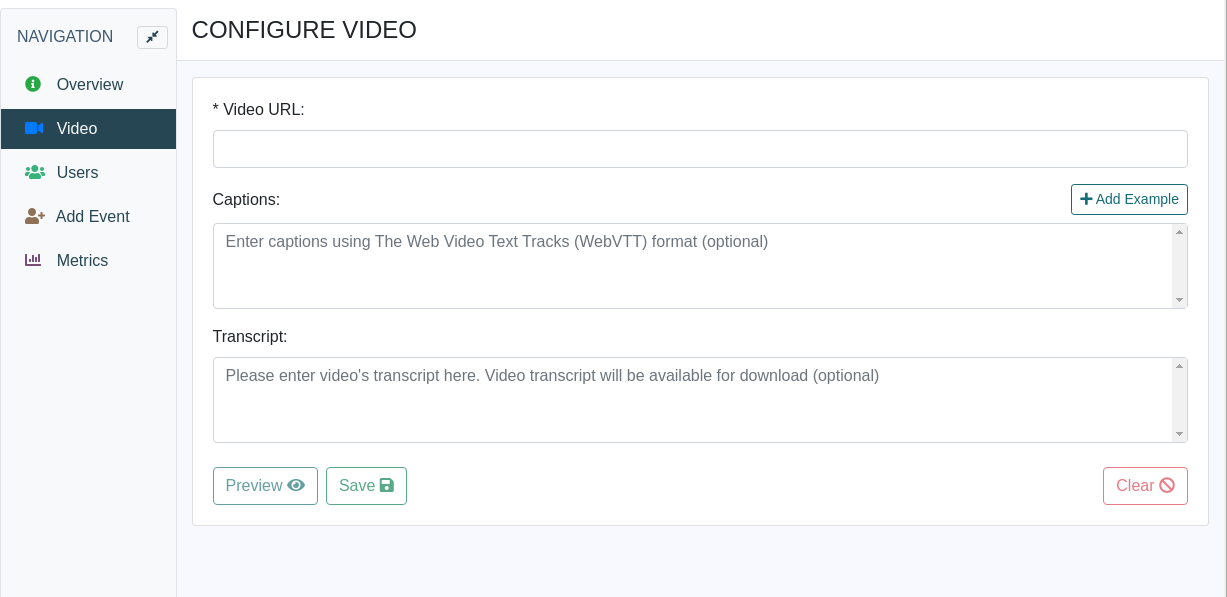
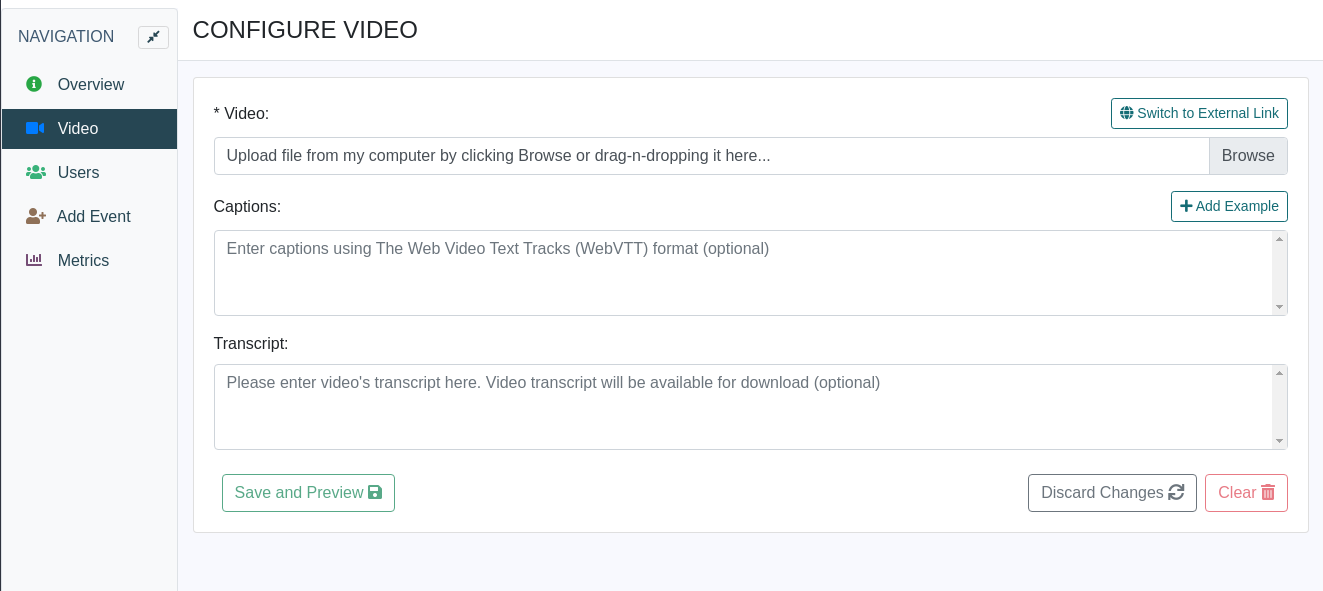
#267: document 2.9 release - wip

diff --git a/docs/dashboard/user-guide/skills.md b/docs/dashboard/user-guide/skills.md
@@ -55,13 +55,26 @@ You can also disable the Time Window property of a Skill, which will force each 
 
 ## Videos <since project="skills-service" version="2.8" />
 
-Externally hosted videos can be embedded into the skill description and optionally configured to achieve that skill once the
-video is fully watched. To configure a video, please navigate to `Project -> Subject -> Skill -> Video`   
+SkillTree supports embedding videos into the skill description and optionally configured to achieve that skill once the
+video is fully watched. You can either embed externally hosted videos OR upload a video directly into SkillTree.  
+
+- **SkillTree Hosted** <since project="skills-service" version="2.9" />: upload a video using file-upload form (Browse button) or by drag-n-dropping video files 
+  - SkillTree supported video formats are:
+    - [Webm](https://www.webmproject.org/about/) - free video format specifically created for the web 
+    - [MP4](https://en.wikipedia.org/wiki/MP4_file_format) - common video format often used in web applications
+- **Externally Hosted**: enter URL that points to a video hosted on another web server (ex. `https://someloca/.../../video.mp4`)
+
+
+To configure a video, please navigate to `Project -> Subject -> Skill -> Video`   
 
 ![Video Config Page](../../screenshots/admin/page-video-config.png)
 
-The only required field is `Video URL`, which points to an externally hosted video (ex. `<url>.mp4`). 
-Once the video is configured it will be presented on the training above the skill's description. 
+The only required field is `Video` and once the video is configured it will be presented on the training above the skill's description. 
+
+To upload a video from you computer you can click on the `Browse` button or `drag-n-drop` a video file into the video input box.
+To configure externally hosted video click on the `Switch to External Link` button then enter the URL that points to an externally hosted video. 
+Please do not forget to click `Save and Preview` button to persist the changes. 
+
 
 To make the video accessible, the configuration offers the ability to specify `Captions` and `Transcript` values.
 When captions are configured the video player will present an option to turn captions on or off.  
@@ -74,10 +87,13 @@ Once the video's settings are specified the skill can also be configured to be a
 Video-based achievements are done using [Self Reporting](/dashboard/user-guide/self-reporting.html) mechanism and can be easily 
 selected by editing that skill and selecting `Video` Self Reporting type. 
 
-::: tip
+::: tips
 Please note that self reporting by watching the video completes the skill, so when the `Video` type is
 selected, `Occurrences to Completion` are set to `1` and cannot be changed.
 :::
+
+If a video has a transcript configured then users will also be allowed to earn the skill by reading its transcript
+and then self-certifying to receive the credit for the skill. 
 
 ## Copy Skill
 To use an existing Skill as a template for a new Skill, you can use the ![copy skill button](./screenshots/copy_btn.png) button available on a Skill row displayed on the Subject page.

diff --git a/docs/release-notes/skills-service.md b/docs/release-notes/skills-service.md
@@ -8,10 +8,25 @@ To obtain deployable artifacts please visit [Distributions](/dashboard/install-g
 
 </conditional>
 
+
+## 2.9.0 <release-date date="August 2023" />
+- Videos in SkillTree
+  - Added support for uploading and hosting videos and integrated with skill's display and video-based skill achievements
+  - During configuration of a video added a clear indicator whether this skill is achievable via watching the video (`self-report=video`)
+  - In addition to watching a video to earn skill's points users are now also allowed to earn the skill's achievement by reading its transcript
+- Quiz and Survey Improvements
+  - Ability to present quiz questions and/or answers in a random order
+  - Ability to have random quiz questions chosen for each quiz attempt
+  - Added new survey star-based rating question type
+- Implemented ability to expire a skill on a specific date based on the configured re-occurring time period
+
+## 2.8.1 <release-date date="July 2023" />
+- Bug Fixes
+
 ## 2.8.0 <release-date date="July 2023" />
-- added ability to embed [training videos](/dashboard/user-guide/skills.html#videos) into skill's description
-- added ability to [achieve skill](/dashboard/user-guide/skills.html#achieve-skill-by-watching-the-video) based on watching embedded video
-- added [bonus award](/dashboard/user-guide/badges.html#bonus-award) feature to create more competitive aspect to badges
+- Added ability to embed [training videos](/dashboard/user-guide/skills.html#videos) into skill's description
+- Added ability to [achieve skill](/dashboard/user-guide/skills.html#achieve-skill-by-watching-the-video) based on watching embedded video
+- Added [bonus award](/dashboard/user-guide/badges.html#bonus-award) feature to create more competitive aspect to badges
 
 ## 2.7.2 <release-date date="July 2023" />
 - Spring Boot upgrade

diff --git a/docs/dashboard/user-guide/quizzes-and-surveys.md b/docs/dashboard/user-guide/quizzes-and-surveys.md
@@ -84,6 +84,14 @@ answered correctly in order to get the credit.
 
 By default, users have an unlimited number of attempts to pass a quiz. You can set the maximum number of attempts to 1 or more. 
 
+#### Setting: Randomize Question Order <since project="skills-service" version="2.9" />
+
+If enabled, questions are presented in a random order each time the quiz is taken. 
+
+#### Setting: Randomize Answers Order <since project="skills-service" version="2.9" />
+
+If enabled, each question's answers are presented in a random order each time the quiz is taken.
+
 ## Survey
 
 A Survey is a data collection technique utilizing one or more questions. Surveys can be associated to a skill or can be
@@ -92,10 +100,11 @@ earn the skill and its points.
 When associated to a skill, the survey is a method to gather feedback about that skill or collect some
 pieces of important data related to the skill. 
 
-A Survey currently supports three types of questions:
+A Survey currently supports four types of questions:
 - ``Single Choice`` - question will only allow a single choice to be selected
 - ``Mulitple Choice`` - one or more choices are required to be selected  
 - ``Text Input`` - a freeform answer text is required
+- ``Rating`` - a star-based rating question with an ability configure between 3 and 10 stars  
 
 To administer a survey click the `Manage` button for that survey on the `Quizzes and Surveys` page.
 
